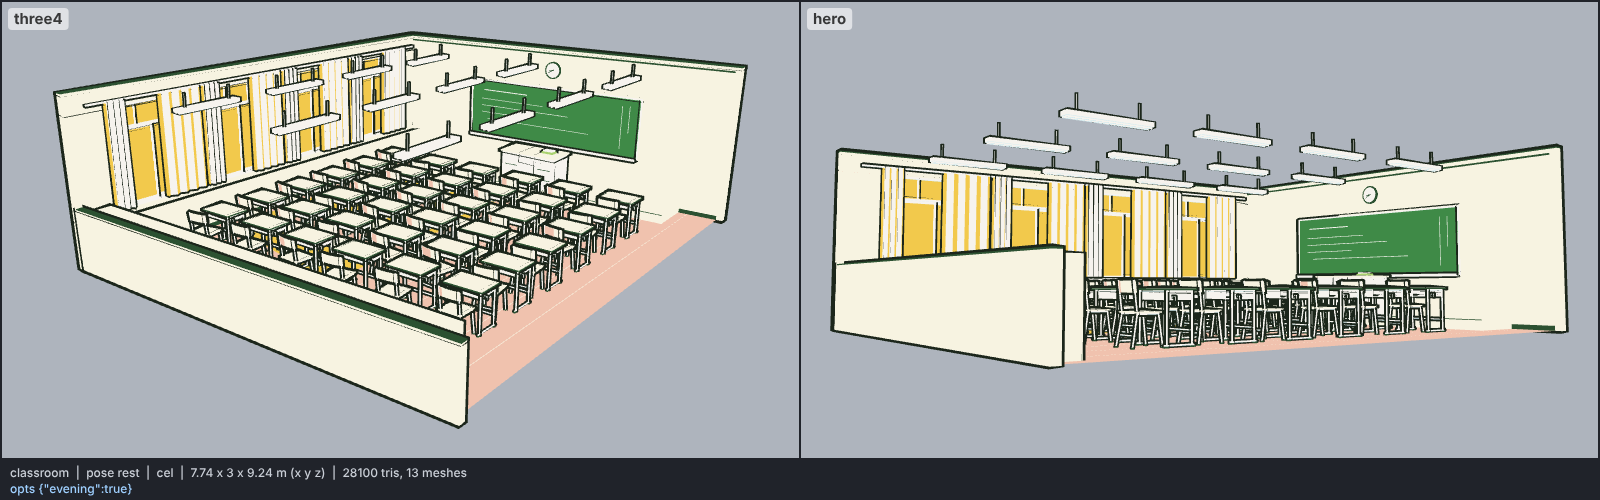
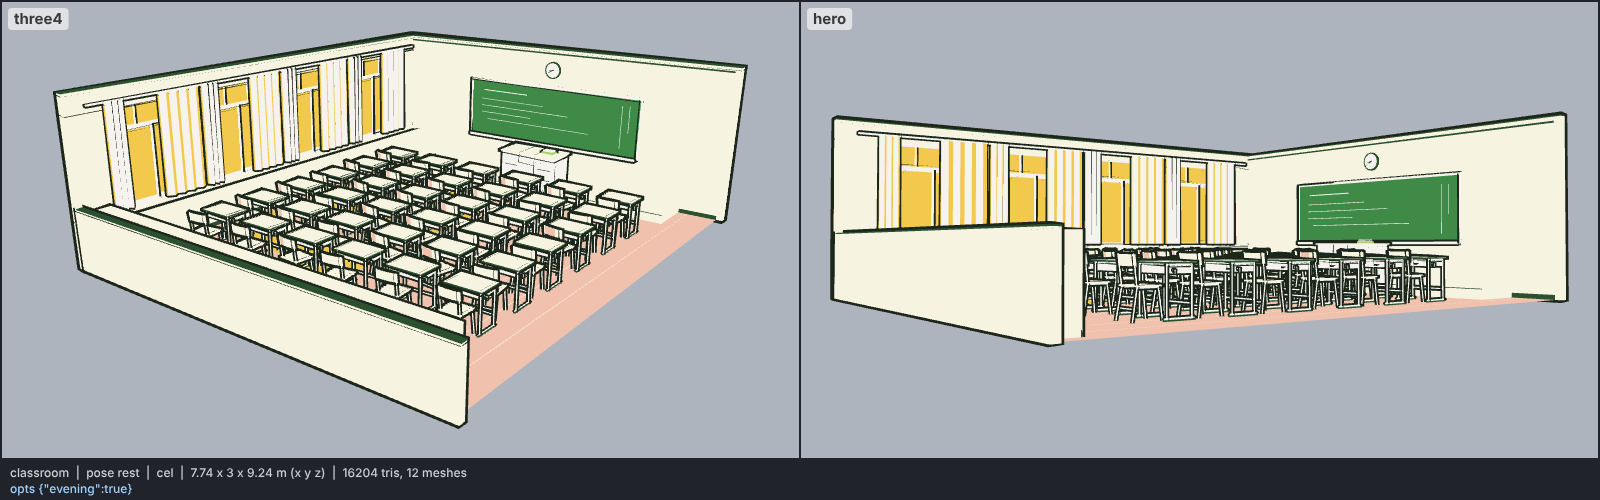
models: classroom, lights only under the ceiling, lighter geometry
Drop the hanging fittings from the cutaway (they read as floating shelves),
4-sided tubes, one edge-band box and one shoe per desk runner, zigzag curtain
pleats: ~16k triangles at the defaults (was 28k).

Claude-Session: https://claude.ai/code/session_01RarBCdt4E1fNHHaUKaW5GL

diff --git a/models/classroom.js b/models/classroom.js
@@ -3,8 +3,8 @@
 // room +Z, so the lab's front-left cameras look in; the pupils face -Z (the blackboard), their left is -X (the
 // windows: light from the writing hand's other side, as in every Japanese school). Floor on y = 0, centred on x = z = 0.
 //
-// Construction (boxes, 6-sided tubes, pleated lofts and flat quads, all triangle soups merged per material, so the
-// whole room is a dozen meshes; boxes are flat-shaded, tubes carry radial normals so a thin steel leg reads round).
+// Construction (boxes, 4-sided tubes, pleated lofts and flat quads, all triangle soups merged per material, so the
+// whole room is a dozen meshes; boxes are flat-shaded, tubes carry radial normals so a thin steel leg reads round at room scale).
 // Every triangle is wound away from a point inside its solid (box centre, tube axis, loft column), never by hand.
 //   SHELL     floor quad with lighter plank seams; walls as boxes 12 cm thick round the interior, cut into piers, sill
 //             walls and lintels at the openings; dark skirting and picture-rail bands (unlined boxes 12 mm proud) draw
@@ -13,7 +13,7 @@
 //   WINDOWS   (-X wall) four 2 m bays on 0.2 m piers: an aluminium casing, two sashes on two tracks overlapping at the
 //             middle, a transom bar and three transom lights. Glass is two unlined sky plates back to back in the
 //             wall's mid-plane, so the frames are the lines. A deep sill board, a curtain rail, and per bay one curtain
-//             half drawn across the glass plus one bunched at the next pier: a pleated loft (sine front, flat back)
+//             half drawn across the glass plus one bunched at the next pier: a pleated loft (zigzag front, flat back)
 //             whose fold faces alternate base / shade at threshold 0.45.
 //   CORRIDOR  (+X wall, only with { cutaway: false }) two pale-green sliding doors with a glass light each, a dark
 //             head and pull, and a row of six high transom windows over the whole wall.
@@ -25,12 +25,12 @@
 //   BACK      (+Z) a wall-wide cubby locker (3 rows of 12, dark openings, a fixed hash puts bags and boxes in some),
 //             under a green felt notice board with pinned sheets (the board only with the wall, { cutaway: false }).
 //   DESKS     a rows x cols grid of student sets in the style of the school-desk model, on their own geometry: birch
-//             top with a dark edge band, two inverted-U tube side frames on floor runners and rubber shoes, a low
+//             top over one dark band box, two inverted-U tube side frames on floor runners with rubber shoes, a low
 //             stretcher, a steel book box open to the pupil and a bag hook; the chair a birch seat and bowed back on
 //             splayed tube legs, the rear pair running up as back posts. Chairs are tucked by varying amounts and
 //             turned a little (a fixed hash, no randomness).
 //   LIGHTS    twelve fluorescent fittings in three lines along the room: a steel channel with two glowing tubes under
-//             it, hung on two rods to the ceiling line (they stay in the cutaway: the strips are an identity cue).
+//             it, hung on two rods from the ceiling. Only with the ceiling ({ cutaway: false }): without it they float.
 // Proportions (real size, base unit the storey H = 3.0 m): interior 7.5 (x) by 9.0 (z), walls and ceiling 3.0
 //   (meta.height); window sill 0.85, sash head 2.25, transoms to 2.65; board from 0.95 to 2.15; dais 0.18 x 6.0 x 0.9;
 //   doors 0.95 x 1.95, transoms 2.15-2.7; lockers 1.05 high, 0.4 deep; clock 0.36 across at 2.55; desk 0.70
@@ -42,8 +42,9 @@
 //               top, so cameras on the +X / +Z side (the lab's three4 and hero) look straight in. false: the closed
 //               room (corridor wall with doors, full back wall with the notice board, ceiling), for cameras inside it.
 //   evening     warm window light, same script: the glass turns practical yellow, the curtains' fold shade turns
-//               practical, the low sun throws one practical patch per bay across the floor, and the tubes go off.
-// Budget: ~28k triangles at 6 x 6 (a desk set ~640, the room ~5k; 37k at 7 x 7), 14 meshes (13 in the evening).
+//               practical, the low sun throws one practical patch per bay across the floor, and the tubes (closed room) go off.
+// Budget: ~16k triangles at 6 x 6 (a desk set ~400, the room ~2k; 21k at 7 x 7), 13 meshes (12 in the evening);
+//   the closed room adds the fittings and the corridor wall (~17k, 14 meshes).
 // Ink in pixels: walls, wood, board and caps 3, steel and curtains 2 (a room is seen small: thin tubes keep their colour).
 // Colours (meadow, the school models' script), base / shade:
 //   walls, ceiling, lockers, birch (desk tops, seats, backs, dais, sills)  moon #f7f3e1 / skin #f0c2ae, threshold 0.1
@@ -138,8 +139,8 @@ export function build(THREE, kit, colors = meta.colors, opts = {}) {
     plate("glass", add(ctr, mul(n, 0.001)), n, w, h);
     plate("glass", sub(ctr, mul(n, 0.001)), mul(n, -1), w, h);
   };
-  // a capped 6-sided tube from a to b (straight), radius r; ends pushed out by r so joints overlap
-  function rod(key, a, b, r, sides = 6) {
+  // a capped tube (4 sides by default) from a to b (straight), radius r; ends pushed out by 0.6 r so joints overlap
+  function rod(key, a, b, r, sides = 4) {
     const T = nrm(sub(b, a));
     a = sub(a, mul(T, r * 0.6)), b = add(b, mul(T, r * 0.6));
     const up = Math.abs(T[1]) > 0.9 ? [1, 0, 0] : [0, 1, 0];
@@ -221,9 +222,9 @@ export function build(THREE, kit, colors = meta.colors, opts = {}) {
   // curtains: per bay one panel half drawn from the front pier, one bunched against the back pier
   const CY0 = SILL + 0.06, CY1 = HEAD + 0.1;
   function curtain(za, zb, folds, depth) {
-    const n = folds * 4, xb = wx1 + 0.1, xf = xb + 0.04;
+    const n = folds * 2, xb = wx1 + 0.1, xf = xb + 0.04;
     const col = (i) => {
-      const z = za + ((zb - za) * i) / n, f = xf + depth * (0.5 + 0.5 * Math.sin((i / 4) * Math.PI * 2));
+      const z = za + ((zb - za) * i) / n, f = xf + depth * (i % 2); // a zigzag: two flat fold faces a pleat
       return [[xf - 0.03 + (f - xf), CY0, z], [f, CY1, z], [xb, CY1, z], [xb, CY0, z]].map((p, k) => (k === 0 ? [f, CY0, z] : p));
     };
     const C = Array.from({ length: n + 1 }, (_, i) => col(i));
@@ -372,7 +373,7 @@ export function build(THREE, kit, colors = meta.colors, opts = {}) {
   }
 
   // ---------- fluorescent fittings ----------
-  for (const x of [-2.2, 0, 2.2])
+  if (!cutaway) for (const x of [-2.2, 0, 2.2])
     for (const z of [-3.0, -1.0, 1.0, 3.0]) {
       const y = 2.72;
       box("steel", x - 0.08, x + 0.08, y, y + 0.06, z - 0.62, z + 0.62);
@@ -386,10 +387,7 @@ export function build(THREE, kit, colors = meta.colors, opts = {}) {
     const DW2 = 0.325, DD = 0.225, DHt = 0.7, TT = 0.022;
     box("wood", -DW2, DW2, DHt - TT, DHt, -DD, DD);
     const e = 0.004, ey0 = DHt - TT - 0.001, ey1 = DHt - 0.002;
-    box("dark", -DW2 - e, DW2 + e, ey0, ey1, DD - 0.006, DD + e);
-    box("dark", -DW2 - e, DW2 + e, ey0, ey1, -DD - e, -DD + 0.006);
-    box("dark", DW2 - 0.006, DW2 + e, ey0, ey1, -DD, DD);
-    box("dark", -DW2 - e, -DW2 + 0.006, ey0, ey1, -DD, DD);
+    box("dark", -DW2 - e, DW2 + e, ey0, ey1, -DD - e, DD + e); // one band box round the top's edge, inside it
     const fx = 0.285, lz = 0.185, ry = DHt - TT - TUBE;
     for (const s of [-1, 1]) {
       const x = s * fx;
@@ -397,8 +395,7 @@ export function build(THREE, kit, colors = meta.colors, opts = {}) {
       rod("steel", [x, 0.03, -lz], [x, ry, -lz], TUBE);
       rod("steel", [x, ry, -lz], [x, ry, lz], TUBE);
       rod("steel", [x, 0.03, -lz - 0.03], [x, 0.03, lz + 0.03], TUBE); // runner on the floor
-      box("dark", x - 0.016, x + 0.016, 0, 0.018, lz - 0.02, lz + 0.05);
-      box("dark", x - 0.016, x + 0.016, 0, 0.018, -lz - 0.05, -lz + 0.02);
+      box("dark", x - 0.016, x + 0.016, 0, 0.018, -lz - 0.05, lz + 0.05); // rubber shoe the length of the runner
     }
     rod("steel", [-fx, 0.2, -lz], [fx, 0.2, -lz], 0.009); // stretcher on the board side
     // steel book box under the top, open to the pupil
@@ -416,16 +413,15 @@ export function build(THREE, kit, colors = meta.colors, opts = {}) {
     const ry = SY - ST - r;
     for (const s of [-1, 1]) {
       const x = s * lx, xf = s * (lx + 0.012);
-      rod("steel", [xf, 0.02, -0.2], [x, ry, -0.15], r); // front leg
-      rod("steel", [xf, 0.02, 0.22], [x, ry, 0.15], r); // rear leg
+      rod("steel", [xf, 0.009, -0.2], [x, ry, -0.15], r); // front leg
+      rod("steel", [xf, 0.009, 0.22], [x, ry, 0.15], r); // rear leg
       rod("steel", [x, ry, 0.15], [x, 0.79, 0.2], r); // back post
       rod("steel", [x, ry, -0.15], [x, ry, 0.15], r); // seat rail
-      for (const z of [-0.2, 0.22]) box("dark", xf - 0.014, xf + 0.014, 0, 0.022, z - 0.014, z + 0.014);
     }
     rod("steel", [-lx, ry, -0.15], [lx, ry, -0.15], 0.009);
     rod("steel", [-lx, 0.15, 0.17], [lx, 0.15, 0.17], 0.008);
     // bowed backrest in front of the posts (toward the pupil), leaning with them
-    const n = 5, BWd = 0.37, by0 = 0.65, by1 = 0.79, th = 0.014, bow = 0.02;
+    const n = 3, BWd = 0.37, by0 = 0.65, by1 = 0.79, th = 0.014, bow = 0.02;
     const zAt = (y) => 0.15 + ((y - ry) / (0.79 - ry)) * 0.05 - r - 0.002;
     const col = (i) => {
       const x = -BWd / 2 + (i / n) * BWd, dz = bow * (1 - (2 * x / BWd) ** 2);
